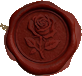
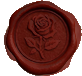
FEAT_DEV : Logic for sudden call event to take place at a given sequence number

Changed region(s): [[0.0, 0.2895, 0.0976, 0.4211]]

diff --git a/escaposaurus_video.js b/escaposaurus_video.js
@@ -465,25 +465,40 @@ function openVideoWindow(vid, vid_folder){
 	var title ;
 	var src ;
 	/*according to case, deal with title and video path*/
-	if(vid == "intro" || vid == "introBis"){
+	if(vid == "intro" || vid == "introBis")
+	{
 		title = titleData.introTitle ;
 		src = introVideoPath ;
-	}else if(vid == "epilogue"){
+	}
+	else if(vid == "epilogue")
+	{
 		title = titleData.epilogueTitle ;
 		src = epilogueVideoPath ;
-	}else if(vid == "missing"){
+	}
+	else if(vid == "missing")
+	{
 		title = titleData.callTitle ;
 		src = missingVideoPath ;
+	
 
 		/*add listerner to launch the end of the game when player close this video*/
 		var cl = document.getElementById("btn-closecall") ;
 		cl.addEventListener("click", callbackCloseMissingCall) ;
-	}else{
-		if(mainHintFound){
+	}
+	else if(vid == "event")
+	{
+		title = titleData.callTitle;
+		src = eventVideoPath;
+	}
+	else{
+		if(mainHintFound)
+		{
 			title = titleData.callTitle ;
 			src = vid_folder+"seq"+sequenceNumber+".mp4" ;
 			document.getElementById('divcontact-'+vid).classList.add("already-called") ;
-		}else{
+		}
+		else
+		{
 			/*no call, because main clue not opened, display of message*/
 			openIt('nocall-window') ;
 			return;
@@ -542,15 +557,24 @@ function closeIt(nameId){
 function changingSequence(){
 	sequenceNumber++ ;
 
+
+
 	if(sequenceNumber >= sequenceWin){
 		TinyStato.logThis(2, "win", "", sequenceNumber) ;
 		unlockContacts() ;
 		win() ;
-	}else{
+	}
+	else if(sequenceNumber == sequenceForEvent)
+	{
+		openIt('calling-window');
+	}
+	else
+	{
 		TinyStato.logThis(3, "newsequence", "", sequenceNumber) ;
 		mainHintFound = false ;
 		lockContacts() ;
-		if(seqMainHint[sequenceNumber] == "noHint"){
+		if(seqMainHint[sequenceNumber] == "noHint")
+		{
 			mainHintFound = true ;
 			unlockContacts() ;
 		}
@@ -574,14 +598,28 @@ function closeNewContact(d){
 	createContact(missingContact, nc) ;
 }
 
+/*openIt('calling-window') opens the window for an upcoming call, when it is closed, this is called*/
+/*which allows us to decide what exactly is going to get played*/
+/*so to link a incoming call to a specific sequence, on sequence change, open that window, then, on close, check the sequence and act accordingly*/
 function closeAppelEntrant(d){
 	closeIt(d) ;
 
-	if(winState === false){
-		openVideoWindow('intro') ;
-	}else{
-		openEpilogue() ;
+	if(sequenceNumber == sequenceForEvent)
+	{
+		openVideoWindow('event');
 	}
+	else
+	{
+		if(winState === false)
+		{
+			openVideoWindow('intro') ;
+		}
+		else
+		{
+			openEpilogue() ;
+		}
+	}
+	
 }
 
 /*via eventlistener, callback that open the end of the game (epilogue and credit video)*/

diff --git a/escaposaurus_examplegamedata/escaposaurus_exampledata.js b/escaposaurus_examplegamedata/escaposaurus_exampledata.js
@@ -27,6 +27,10 @@
 		var missingVideoPath = videoRoot+"contactVideo/missing/final.mp4" ;
 		var epilogueVideoPath = videoRoot+"epilogueVideo/epiloguecredit.mp4" ;
 
+		/*variables defined for our own sudden call events ; Example*/
+		var eventVideoPath = videoRoot + "event.mp4";
+		var sequenceForEvent = 1;
+
 		/*udisk JSON path*/
 		var udiskRoot = gameDataRoot+"udisk/" ;
 

diff --git a/escaposaurus_examplegamedata/escaposaurus_style.css b/escaposaurus_examplegamedata/escaposaurus_style.css
@@ -108,6 +108,8 @@ video{max-width: 960px;}
 	overflow: auto;
 	background: url("img/fichecontact.png") center no-repeat;
 	background-size: 100% 100%;
+	overflow-x: hidden;
+  	overflow-y: hidden;
 }
 
 #callApp-help, #callApp-prompt{
